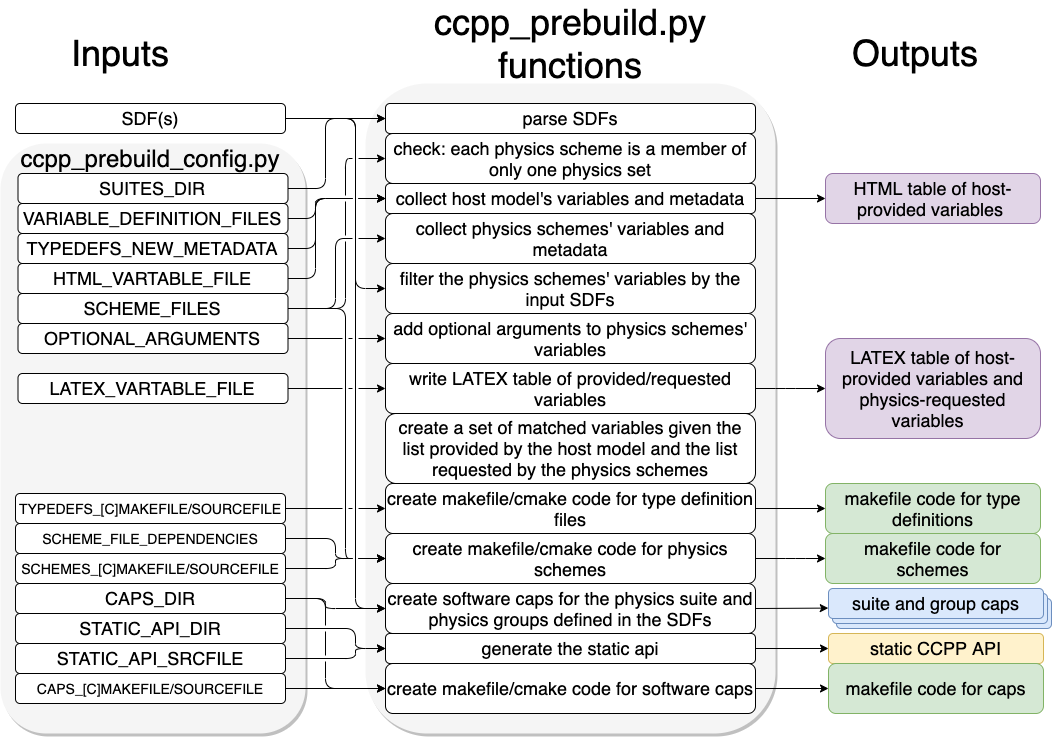
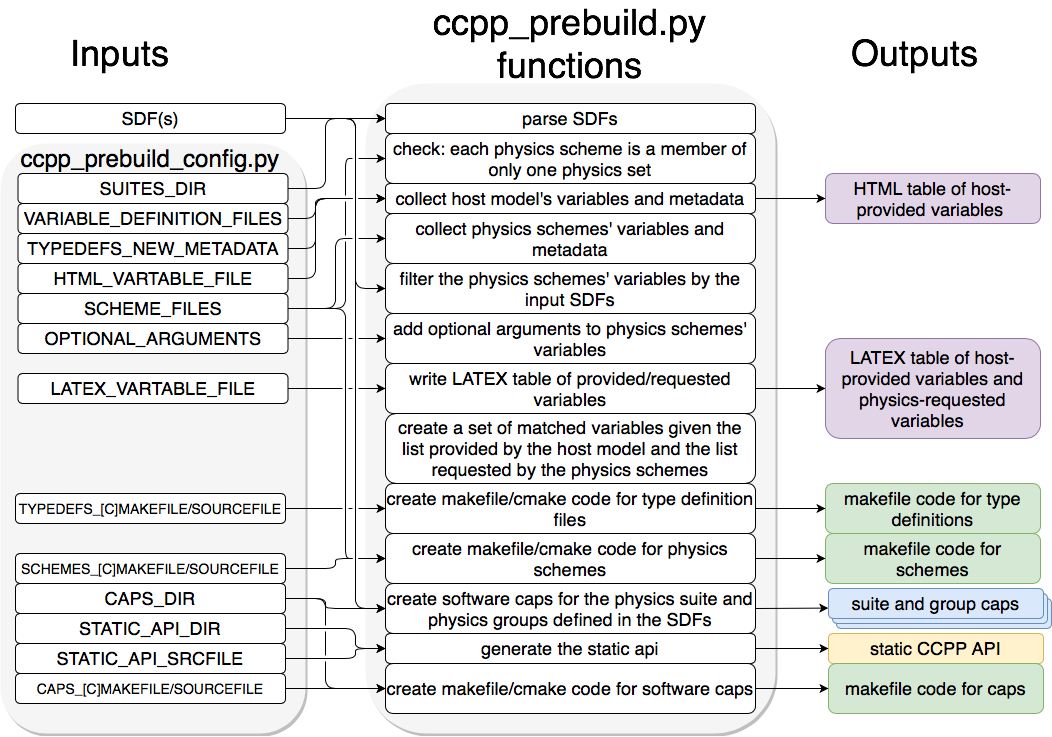
Update doc to include [ccpp-table-properties]:
- Update CCPPPreBuild.rst and _static/ccpp_prebuild_static_only.png to remove
    SCHEME_FILES_DEPENDENCIES and update example of ccpp_prebuild_config.py for SCM

  - Update CompliantPhysicsParams.rst to include [ccpp-table-properties] and
    update listings to include this new table section

  - Remove CCPP=N from ConfigBuildOptions.rst

  - Update HostSideCoding.rst to include [ccpp-table-properties]

  - Update _static/scheme_template.meta to include [ccpp-table-properties]

diff --git a/CCPPtechnical/source/CompliantPhysicsParams.rst b/CCPPtechnical/source/CompliantPhysicsParams.rst
@@ -107,8 +107,131 @@ More details are found below:
 
 .. _MetadataRules:
 
-Metadata Rules
-==============
+Metadata Table Rules
+====================
+
+Each CCPP-compliant physics scheme (``.f`` or ``.F90`` file) must have a corresponding metadata file (``.meta``)
+that contains information about CCPP entry point schemes and their dependencies.  These files
+contain two types of metadata tables: ``ccpp-table-properties`` and ``ccpp-arg-table``, both of which are mandatory.
+The contents of these tables are described in the sections below.
+
+ccpp-table-properties
+---------------------
+The ``[ccpp-table-properties]`` section is required in every metadata file and has four valid entries:
+
+#. ``type``:  In the CCPP Physics, ``type`` can be ``scheme``, ``module``, or ``ddt`` and must match the
+   ``type`` in the associated ``[ccpp-arg-table]`` section(s).
+
+#. ``name``:  This depends on the ``type``. For types ``ddt`` and ``module`` (for 
+   variable/type/kind definitions), ``name`` must match the name of the **single** associated
+   ``[ccpp-arg-table]`` section. For type ``scheme``, the name must match the root names of the
+   ``[ccpp-arg-table]`` sections for that scheme, without the suffixes ``_init``, ``_run``, ``_finalize``.
+
+#. ``dependencies``: type/kind/variable definitions and physics schemes often depend on code in other files
+   (e.g. "use machine" --> depends on machine.F). These dependencies must be listed in a comma-separated list.
+   Relative path(s) to those file(s) must be specified here or using the ``relative_path`` entry described below.
+   Dependency attributes are additive; multiple lines containing dependencies can be used.
+
+#. ``relative_path``: If specified, the relative path is added to every file listed in the ``dependencies``.
+
+The information in this section table allows the CCPP to compile only the schemes and dependencies needed by the
+selected CCPP suite(s).
+
+An example for type and variable definitions in ``GFS_typedefs.meta`` is shown in
+:ref:`Listing 2.2 <table-properties-typedefs>`.
+
+.. note::
+
+   A single metadata file may require multiple instances of the [ccpp-table-properties] section.
+
+.. _table-properties-typedefs:
+.. code-block:: fortran
+
+   ########################################################################
+   [ccpp-table-properties]
+     name = GFS_statein_type
+     type = ddt
+     dependencies = 
+
+   [ccpp-arg-table]
+     name = GFS_statein_type
+     type = ddt
+   [phii]
+     standard_name = geopotential_at_interface
+   ...
+   ########################################################################
+   [ccpp-table-properties]
+     name = GFS_stateout_type
+     type = ddt
+     dependencies = 
+
+   [ccpp-arg-table]
+     name = GFS_stateout_type
+     type = ddt
+   [gu0]
+     standard_name = x_wind_updated_by_physics
+   ...
+   ########################################################################
+   [ccpp-table-properties]
+     name = GFS_typedefs
+     type = module
+     relative_path = ../../ccpp/physics/physics
+     dependencies = machine.F,physcons.F90,radlw_param.f,radsw_param.f
+     dependencies = GFDL_parse_tracers.F90,rte-rrtmgp/rrtmgp/mo_gas_optics_rrtmgp.F90
+     dependencies = rte-rrtmgp/rte/mo_optical_props.F90
+     dependencies = rte-rrtmgp/extensions/cloud_optics/mo_cloud_optics.F90
+     dependencies = rte-rrtmgp/rrtmgp/mo_gas_concentrations.F90
+     dependencies = rte-rrtmgp/rte/mo_rte_config.F90
+     dependencies = rte-rrtmgp/rte/mo_source_functions.F90
+
+   [ccpp-arg-table]
+     name = GFS_typedefs
+     type = module
+   [GFS_cldprop_type]
+     standard_name = GFS_cldprop_type
+     long_name = definition of type GFS_cldprop_type
+     units = DDT
+     dimensions = ()
+     type = GFS_cldprop_type
+   ...
+
+*Listing 2.2: Example of a CCPP-compliant metadata file showing the use of the [ccpp-table-properties] section and
+how it relates to [ccpp-arg-table].*
+
+An example metadata file for the CCPP scheme ``mp_thompson.meta`` is shown in :ref:`Listing 2.3 <table-properties-mp-thompson>`.
+
+.. _table-properties-mp-thompson:
+.. code-block:: fortran
+
+   [ccpp-table-properties]
+     name = mp_thompson
+     type = scheme
+     dependencies = machine.F,module_mp_radar.F90,module_mp_thompson.F90
+     dependencies = module_mp_thompson_make_number_concentrations.F90
+
+   ########################################################################
+   [ccpp-arg-table]
+     name = mp_thompson_init
+     type = scheme
+   ...
+
+   ########################################################################
+   [ccpp-arg-table]
+     name = mp_thompson_run
+     type = scheme
+   ...
+
+   ########################################################################
+   [ccpp-arg-table]
+     name = mp_thompson_finalize
+     type = scheme
+   ...
+
+*Listing 2.3: Example metadata file for a CCPP-compliant physics scheme using a single
+[ccpp-table-properties] and how it defines dependencies for multiple [ccpp-arg-table].*
+
+ccpp-arg-table
+--------------
 * Metadata files (``.meta``) are in a relaxed config file format and contain metadata for one or more CCPP entry point schemes.
   There should be one ``.meta`` file for each ``.f`` or .``F90`` file.
 
@@ -124,7 +247,7 @@ Metadata Rules
 
 * ``<name>`` is name of the corresponding subroutine/module.
 
-* ``<type>`` can be ``scheme``, ``module``, ``DDT``, or ``host``.
+* ``<type>`` can be ``scheme``, ``module``, or ``DDT``.
 
 * For empty schemes, the three lines above are sufficient. For non-empty schemes, the metadata must
   describe all input and output arguments to the scheme using the following format:
@@ -165,7 +288,7 @@ Metadata Rules
    dimensions = (horizontal_dimension,vertical_dimension)
    dimensions = (horizontal_dimension,vertical_dimension_of_ozone_forcing_data,number_of_coefficients_in_ozone_forcing_data)
 
-* :ref:`Listing 2.2 <meta_template>` contains the template for a CCPP-compliant scheme
+* :ref:`Listing 2.4 <meta_template>` contains the template for a CCPP-compliant scheme
   (``ccpp/framework/doc/DevelopersGuide/scheme_template.meta``),
 
 .. _meta_template:
@@ -173,7 +296,7 @@ Metadata Rules
    :language: fortran
    :lines: 51-81
 
-*Listing 2.2: Fortran template for a metadata file accompanying a CCPP-compliant scheme.*
+*Listing 2.4: Fortran template for a metadata file accompanying a CCPP-compliant scheme.*
 
 Input/output Variable (argument) Rules
 ======================================

diff --git a/CCPPtechnical/source/HostSideCoding.rst b/CCPPtechnical/source/HostSideCoding.rst
@@ -25,9 +25,7 @@ At present, only two types of variable definitions are supported by the CCPP-Fra
 Metadata for Variable in the Host Model
 ==================================================
 
-To establish the link between host model variables and physics scheme variables, the host model must provide metadata information similar to those presented in :numref:`Section %s <MetadataRules>`. The host model can have multiple metadata files (``.meta``) with multiple metadata sections in each file 
-(``[ccpp-arg-table]``) or just one. The host model Fortran files contain three-line snippets to indicate the location for insertion of the 
-metadata information contained in the corresponding section in the ``.meta`` file.
+To establish the link between host model variables and physics scheme variables, the host model must provide metadata information similar to those presented in :numref:`Section %s <MetadataRules>`. The host model can have multiple metadata files (``.meta``), each with the required ``[ccpp-table-properties]`` section and the related ``[ccpp-arg-table]`` sections in each file. The host model Fortran files contain three-line snippets to indicate the location for insertion of the metadata information contained in the corresponding section in the ``.meta`` file.
 
 .. _SnippetMetadata:
 
@@ -90,6 +88,11 @@ and :ref:`Listing 6.2 <example_vardefs_meta>` for examples of host model metadat
 
 .. code-block:: fortran
 
+   ########################################################################
+   [ccpp-table-properties]
+     name = arg_table_example_vardefs
+     type = module
+
    [ccpp-arg-table]
      name = arg_table_example_vardefs
      type = module
@@ -136,6 +139,10 @@ and :ref:`Listing 6.2 <example_vardefs_meta>` for examples of host model metadat
      type = integer
 
    ########################################################################
+   [ccpp-table-properties]
+     name = arg_table_example_ddt
+     type = ddt
+
    [ccpp-arg-table]
      name = arg_table_example_ddt
      type = ddt
@@ -268,6 +275,12 @@ In this example, ``gu0``, ``gv0``, ``gt0``, and ``gq0`` are defined in the host-
 
 .. code-block:: fortran
 
+  ########################################################################
+  [ccpp-table-properties]
+     name = GFS_stateout_type
+     type = ddt
+     dependencies =
+
    [ccpp-arg-table]
      name = GFS_stateout_type
      type = ddt
@@ -307,21 +320,41 @@ The ``cdata`` structure is used for holding five variables that must always be a
 .. _MandatoryVariables:
 
 .. code-block:: fortran
+  [ccpp-table-properties]
+    name = ccpp_types
+    type = module
+    dependencies =
 
   [ccpp-arg-table]
+    name = ccpp_types
+    type = module
+  [ccpp_t]
+    standard_name = ccpp_t
+    long_name = definition of type ccpp_t
+    units = DDT
+    dimensions = ()
+    type = ccpp_t
+  
+  ########################################################################
+  [ccpp-table-properties]
     name = ccpp_t
-    type = scheme
+    type = ddt 
+    dependencies =
+    
+  [ccpp-arg-table]
+    name = ccpp_t 
+    type = ddt
   [errflg]
     standard_name = ccpp_error_flag
     long_name = error flag for error handling in CCPP
     units = flag
-    dimensions = ()
+    dimensions = () 
     type = integer
   [errmsg]
     standard_name = ccpp_error_message
     long_name = error message for error handling in CCPP
     units = none
-    dimensions = ()
+    dimensions = () 
     type = character
     kind = len=512
   [loop_cnt]
@@ -396,7 +429,7 @@ If a specific data instance was used in a call to ``ccpp_init``, as in the above
  call ccpp_finalize(cdata, ierr)
 
 ,,,,,,,,,,,,,,,,,,,,,,,,,,,,,,,,,,,,,,,,,,,,,,,,,,,,,,,,,,,,,,,,,,,
-Running the physics
+Running the Physics
 ,,,,,,,,,,,,,,,,,,,,,,,,,,,,,,,,,,,,,,,,,,,,,,,,,,,,,,,,,,,,,,,,,,,
 
 The physics is invoked by calling subroutine ``ccpp_physics_run``. This subroutine is part of the CCPP API and is auto-generated. This subroutine is capable of executing the physics with varying granularity, that is, a single group, or an entire suite can be run with a single subroutine call. Typical calls to ``ccpp_physics_run`` are below,where ``suite_name`` is mandatory and ``group_name`` is optional:

diff --git a/CCPPtechnical/source/CCPPPreBuild.rst b/CCPPtechnical/source/CCPPPreBuild.rst
@@ -58,31 +58,31 @@ To connect the :term:`CCPP` with a host model ``XYZ``, a Python-based configurat
 .. code-block:: console
 
    # Host model identifier
-   HOST_MODEL_IDENTIFIER = "TEST"
+   HOST_MODEL_IDENTIFIER = "SCM"
    # Add all files with metadata tables on the host model side,
    # relative to basedir = top-level directory of host model
    VARIABLE_DEFINITION_FILES = [
        ’scm/src/gmtb_scm_type_defs.f90’,
        ’scm/src/gmtb_scm_physical_constants.f90’
        ]
-   # Add all physics scheme dependencies relative to basedir - note that the CCPP
-   # rules stipulate that dependencies are not shared between the schemes!
-   SCHEME_FILES_DEPENDENCIES = [] # can be empty
    # Add all physics scheme files relative to basedir
    SCHEME_FILES = {
    # Relative path : [ list of sets in which scheme may be called ]
-   ’ccpp/physics/physics/GFS_DCNV_generic.f90’ : [’physics’],
-   ’ccpp/physics/physics/sfc_sice.f’ : [’physics’],
+   ’ccpp/physics/physics/GFS_DCNV_generic.f90’ ,
+   ’ccpp/physics/physics/sfc_sice.f’
    }
+   # Auto-generated makefile/cmakefile snippets that contain all type definitions
+   TYPEDEFS_MAKEFILE   = 'ccpp/physics/CCPP_TYPEDEFS.mk'
+   TYPEDEFS_CMAKEFILE  = 'ccpp/physics/CCPP_TYPEDEFS.cmake'
+   TYPEDEFS_SOURCEFILE = 'ccpp/physics/CCPP_TYPEDEFS.sh'
    # Auto-generated makefile/cmakefile snippets that contains all schemes
    SCHEMES_MAKEFILE = ’ccpp/physics/CCPP_SCHEMES.mk’
    SCHEMES_CMAKEFILE = ’ccpp/physics/CCPP_SCHEMES.cmake’
-   # CCPP host cap in which to insert the ccpp_field_add statements;
-   # determines the directory to place ccpp_{modules,fields}.inc
-   TARGET_FILES = [’scm/src/gmtb_scm.f90’, ]
+   SCHEMES_SOURCEFILE = 'ccpp/physics/CCPP_SCHEMES.sh'
    # Auto-generated makefile/cmakefile snippets that contains all caps
    CAPS_MAKEFILE = ’ccpp/physics/CCPP_CAPS.mk’
    CAPS_CMAKEFILE = ’ccpp/physics/CCPP_CAPS.cmake’
+   CAPS_SOURCEFILE = 'ccpp/physics/CCPP_CAPS.sh'
    # Directory where to put all auto-generated physics caps
    CAPS_DIR = ’ccpp/physics/physics’
    # Directory where the suite definition files are stored
@@ -96,17 +96,15 @@ To connect the :term:`CCPP` with a host model ``XYZ``, a Python-based configurat
    # both files will be written to the directory of each target file
    # Directory where to write static API to
    STATIC_API_DIR = 'scm/src'
+   STATIC_API_SRCFILE = 'scm/src/CCPP_STATIC_API.sh'
+
+   # Directory for writing HTML pages generated from metadata files
+   METADATA_HTML_OUTPUT_DIR = 'ccpp/physics/physics/docs'
 
    # HTML document containing the model-defined CCPP variables
    HTML_VARTABLE_FILE = ’ccpp/physics/CCPP_VARIABLES.html’
    # LaTeX document containing the provided vs requested CCPP variables
    LATEX_VARTABLE_FILE = ’ccpp/framework/doc/DevelopersGuide/CCPP_VARIABLES.tex’
-   ######## Template code to generate include files ########
-   # Name of the CCPP data structure in the host model cap;
-   # in the case of SCM, this is a vector with loop index i
-   CCPP_DATA_STRUCTURE = ’cdata(i)’
-
-   # EOF
 
 *Listing 8.1: CCPP prebuild config for SCM (shortened)*
 

diff --git a/CCPPtechnical/source/ConfigBuildOptions.rst b/CCPPtechnical/source/ConfigBuildOptions.rst
@@ -9,11 +9,7 @@ The SCM and the UFS Atmosphere are supported for use with the CCPP. In the case 
 `UFS Weather Model User Guide <https://ufs-weather-model.readthedocs.io/en/ufs-v1.0.0/BuildingAndRunning.html#building-the-weather-model>`_ and the
 `SCM User Guide <https://dtcenter.org/GMTB/v4.0/scm-ccpp-guide-v4.0.pdf>`_.
 
-The relevant options for building CCPP with the UFS Atmosphere can be described as follows:
-
-* **Without CCPP (CCPP=N)**: The code is compiled without CCPP and runs using the original UFS Atmosphere physics drivers, such as ``GFS_physics_driver.F90``. This option entirely bypasses all CCPP functionality and is only used for RT against the unmodified UFS Atmosphere codebase.
-
-* **With CCPP (CCPP=Y)**: The code is compiled with CCPP enabled and restricted to CCPP-compliant physics. That is, any parameterization to be called as part of a suite must be available in CCPP. Physics scheme selection and order is determined at runtime by an external suite definition file (SDF; see :numref:`Chapter %s <ConstructingSuite>` for further details on the SDF). The existing physics-calling code ``GFS_physics_driver.F90`` and ``GFS_radiation_driver.F90`` are bypassed altogether in this mode and any additional code needed to connect parameterizations within a suite previously contained therein is executed from the so-called CCPP-compliant “interstitial schemes”.  Compiling with CCPP links *CCPP-Framework* and *CCPP-physics* to the executable and is restricted to CCPP-compliant physics defined by one or more SDFs used at compile time.
+By default, the code is compiled with CCPP enabled and restricted to CCPP-compliant physics. That is, any parameterization to be called as part of a suite must be available in CCPP. Physics scheme selection and order is determined at runtime by an external suite definition file (SDF; see :numref:`Chapter %s <ConstructingSuite>` for further details on the SDF). The existing physics-calling code ``GFS_physics_driver.F90`` and ``GFS_radiation_driver.F90`` are bypassed altogether in this mode and any additional code needed to connect parameterizations within a suite previously contained therein is executed from the so-called CCPP-compliant “interstitial schemes”.  Compiling with CCPP links *CCPP-Framework* and *CCPP-physics* to the executable and is restricted to CCPP-compliant physics defined by one or more SDFs used at compile time.
 
 For all options that activate the CCPP, the ``ccpp_prebuild.py`` Python script must be run. This may be done manually or as part of a host model build-time script. In the case of the SCM,         ``ccpp_prebuild.py`` must be run manually, as it is not incorporated in that model’s build system. In the case of the UFS Atmosphere, ``ccpp_prebuild.py`` is run automatically as a step in the build system, although it can be run manually for debugging purposes.
 
